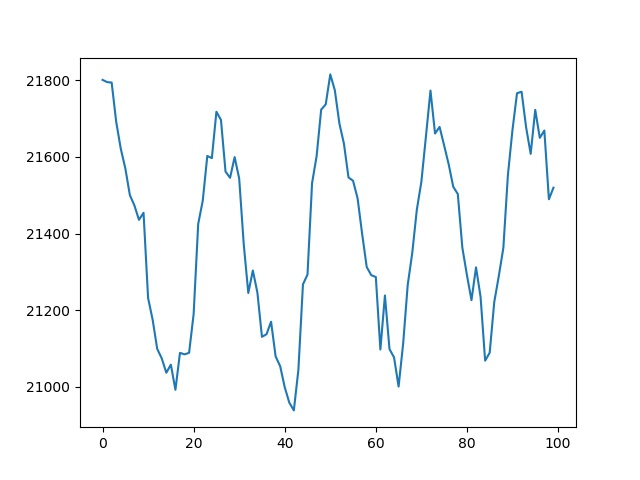
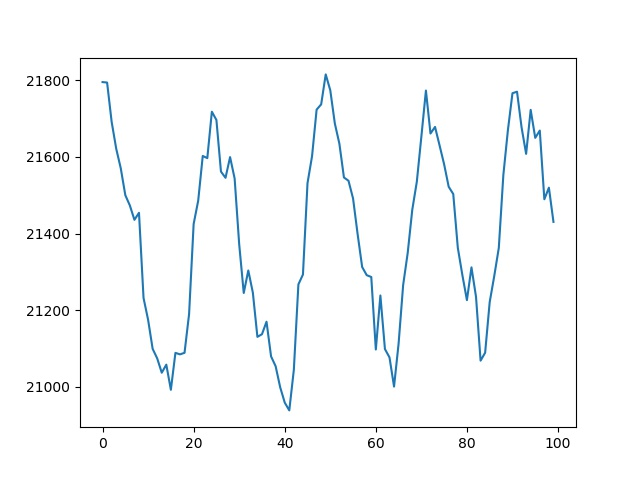
'auto'

Changed region(s): [[0.1562, 0.1562, 0.875, 0.875]]

diff --git a/README.md b/README.md
@@ -1,5 +1,5 @@
 Frizider live: 5
-21519.641666666666 
+21430.30833333333 
 0
 Temperatura:
 
